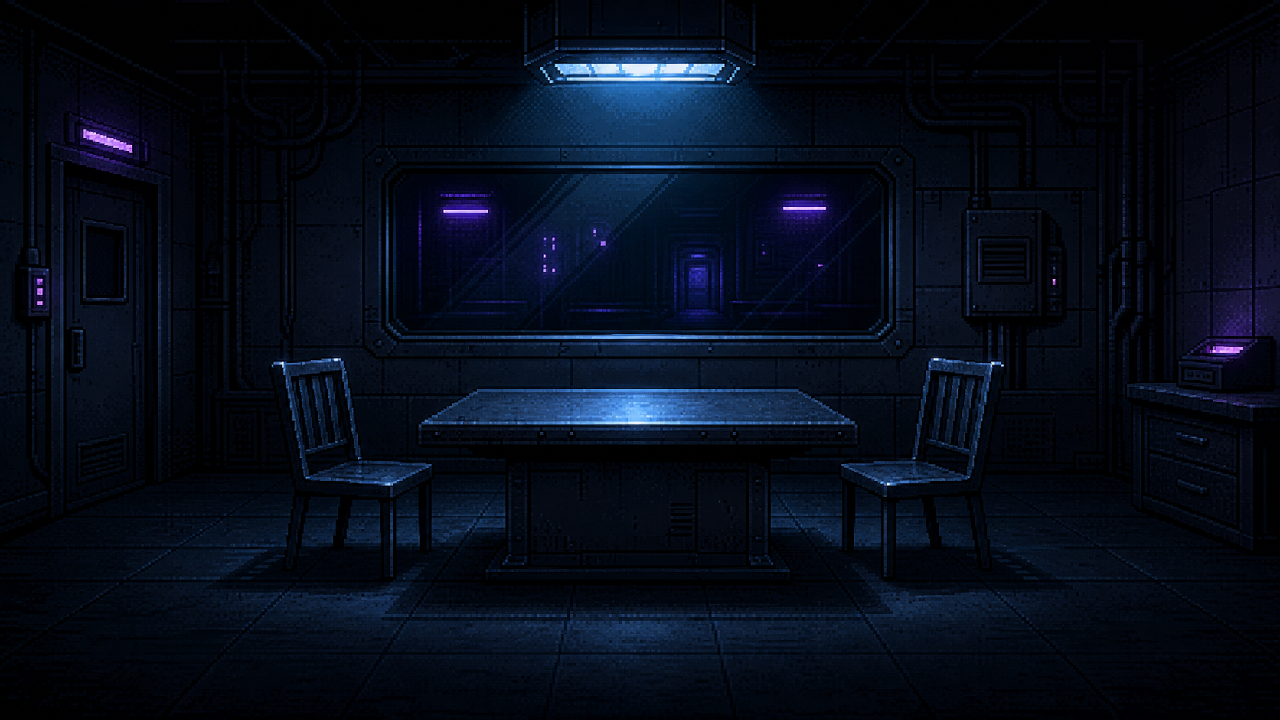
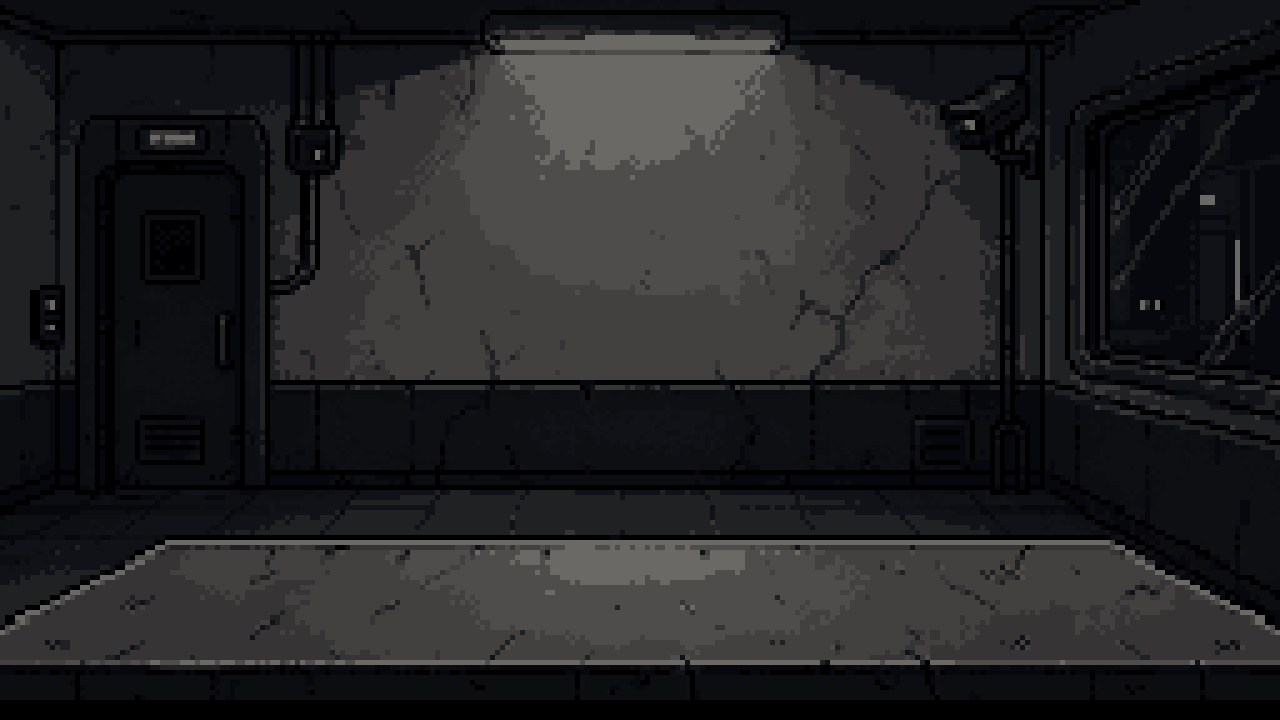
feat(client): 审讯室换8比特空房 + 周明远4情绪精灵图集
- bg_police_room.png 换成真·8比特审讯室空房, 与立绘风格统一
- 新增 zhou_emotions.png 情绪图集(4行 calm/angry/sinister/sad × 4帧 idle, 256x192/格)
- interrogation.gd: 立绘改图集驱动, AtlasTexture 按行切表情 + idle 乒乓动画 + _set_emotion(); 真相浮现自动切'悲伤'; 临时 F1-F4 调试键
- 删除被取代的旧 zhou_portrait.png
- 预留 LLM emotion 接口(下一步后端输出 {emotion,reply} 即可驱动)

diff --git a/PROJECT_TODO.md b/PROJECT_TODO.md
@@ -7,6 +7,8 @@
 
 ## 进行中
 - [ ] MVP 核心审讯闭环打磨。
+- [ ] **让 AI 自己挑表情**：后端回复改 `{emotion,reply}`(枚举 calm/angry/sinister/sad + system prompt 规则)，客户端 `_set_emotion(data.emotion)` 接上(接口已备)，缺失兜底 calm。
+- [ ] 验收表情后删除 `interrogation.gd` 里的临时 F1-F4 调试键。
 
 ## 待确认
 - [ ] 赛事是否强制指定腾讯云产品、模型或部署方式。

diff --git a/PROJECT_PROGRESS.md b/PROJECT_PROGRESS.md
@@ -30,5 +30,6 @@
 - 当前后端实现接入月之暗面 Kimi（`KIMI_API_KEY` / `KIMI_MODEL`），而设计文档早期写的是腾讯云大模型/SCF；这是需要后续确认或统一的差异。
 
 ## 最近一次进展
+- 2026-06-16: 审讯室背景换成真·8 比特空房(`bg_police_room.png`，与立绘风格统一)；周明远改 4 情绪精灵图集 `zhou_emotions.png`(4 行 calm/angry/sinister/sad × 4 帧，256×192/格)，`interrogation.gd` 按行切表情、idle 乒乓播放、`_set_emotion()` 切换、真相浮现自动切"悲伤"；临时 F1-F4 调试键(验收后删)。删除被取代的旧 `zhou_portrait.png`。**待办**：让 LLM 输出 `{emotion,reply}` 驱动表情(后端那一小步)。
 - 2026-06-16: 接入 8 张像素美术（`Game/client/art/`）；重写 `opening.gd`（序幕接图 + Ken Burns 推镜 + 居中打字机 + 手机来电）与 `interrogation.gd`（Coffee Talk 式带尖气泡）。逻辑测试 12/12 通过，两场景无头加载无脚本错误，Godot 渲染截图自查开场/审讯/双气泡/手机屏均正常。
 - 2026-06-15: 读取项目文档和现有实现，初始化项目进度记忆。